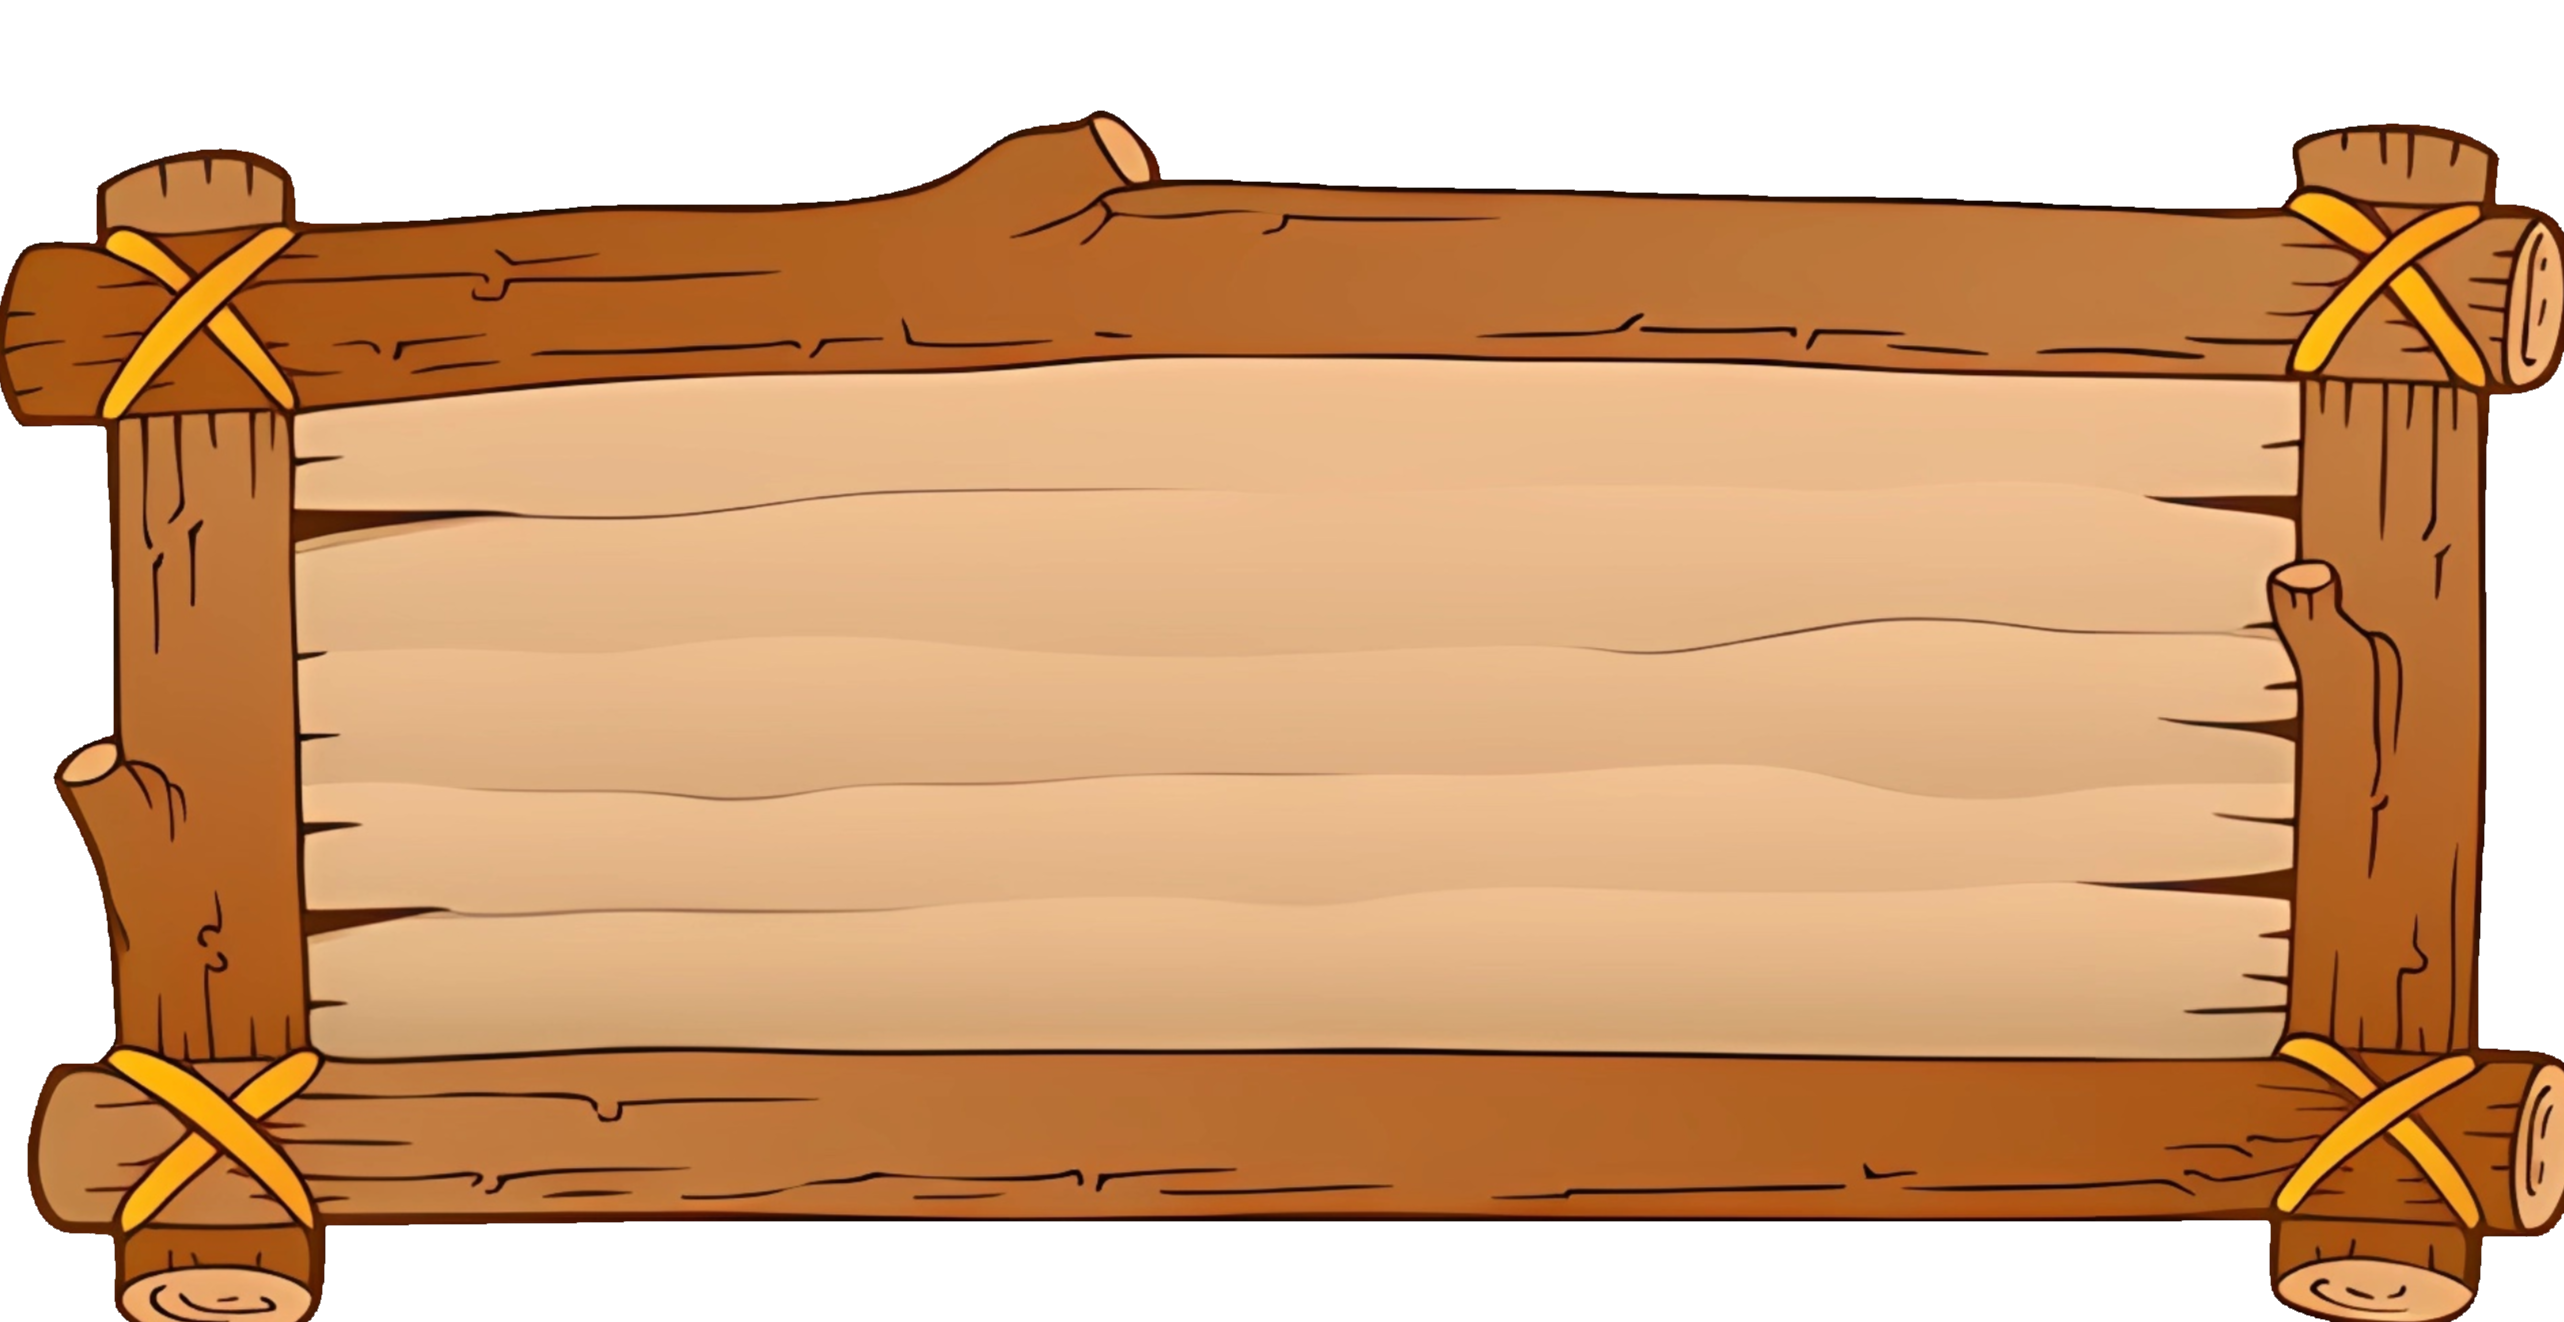
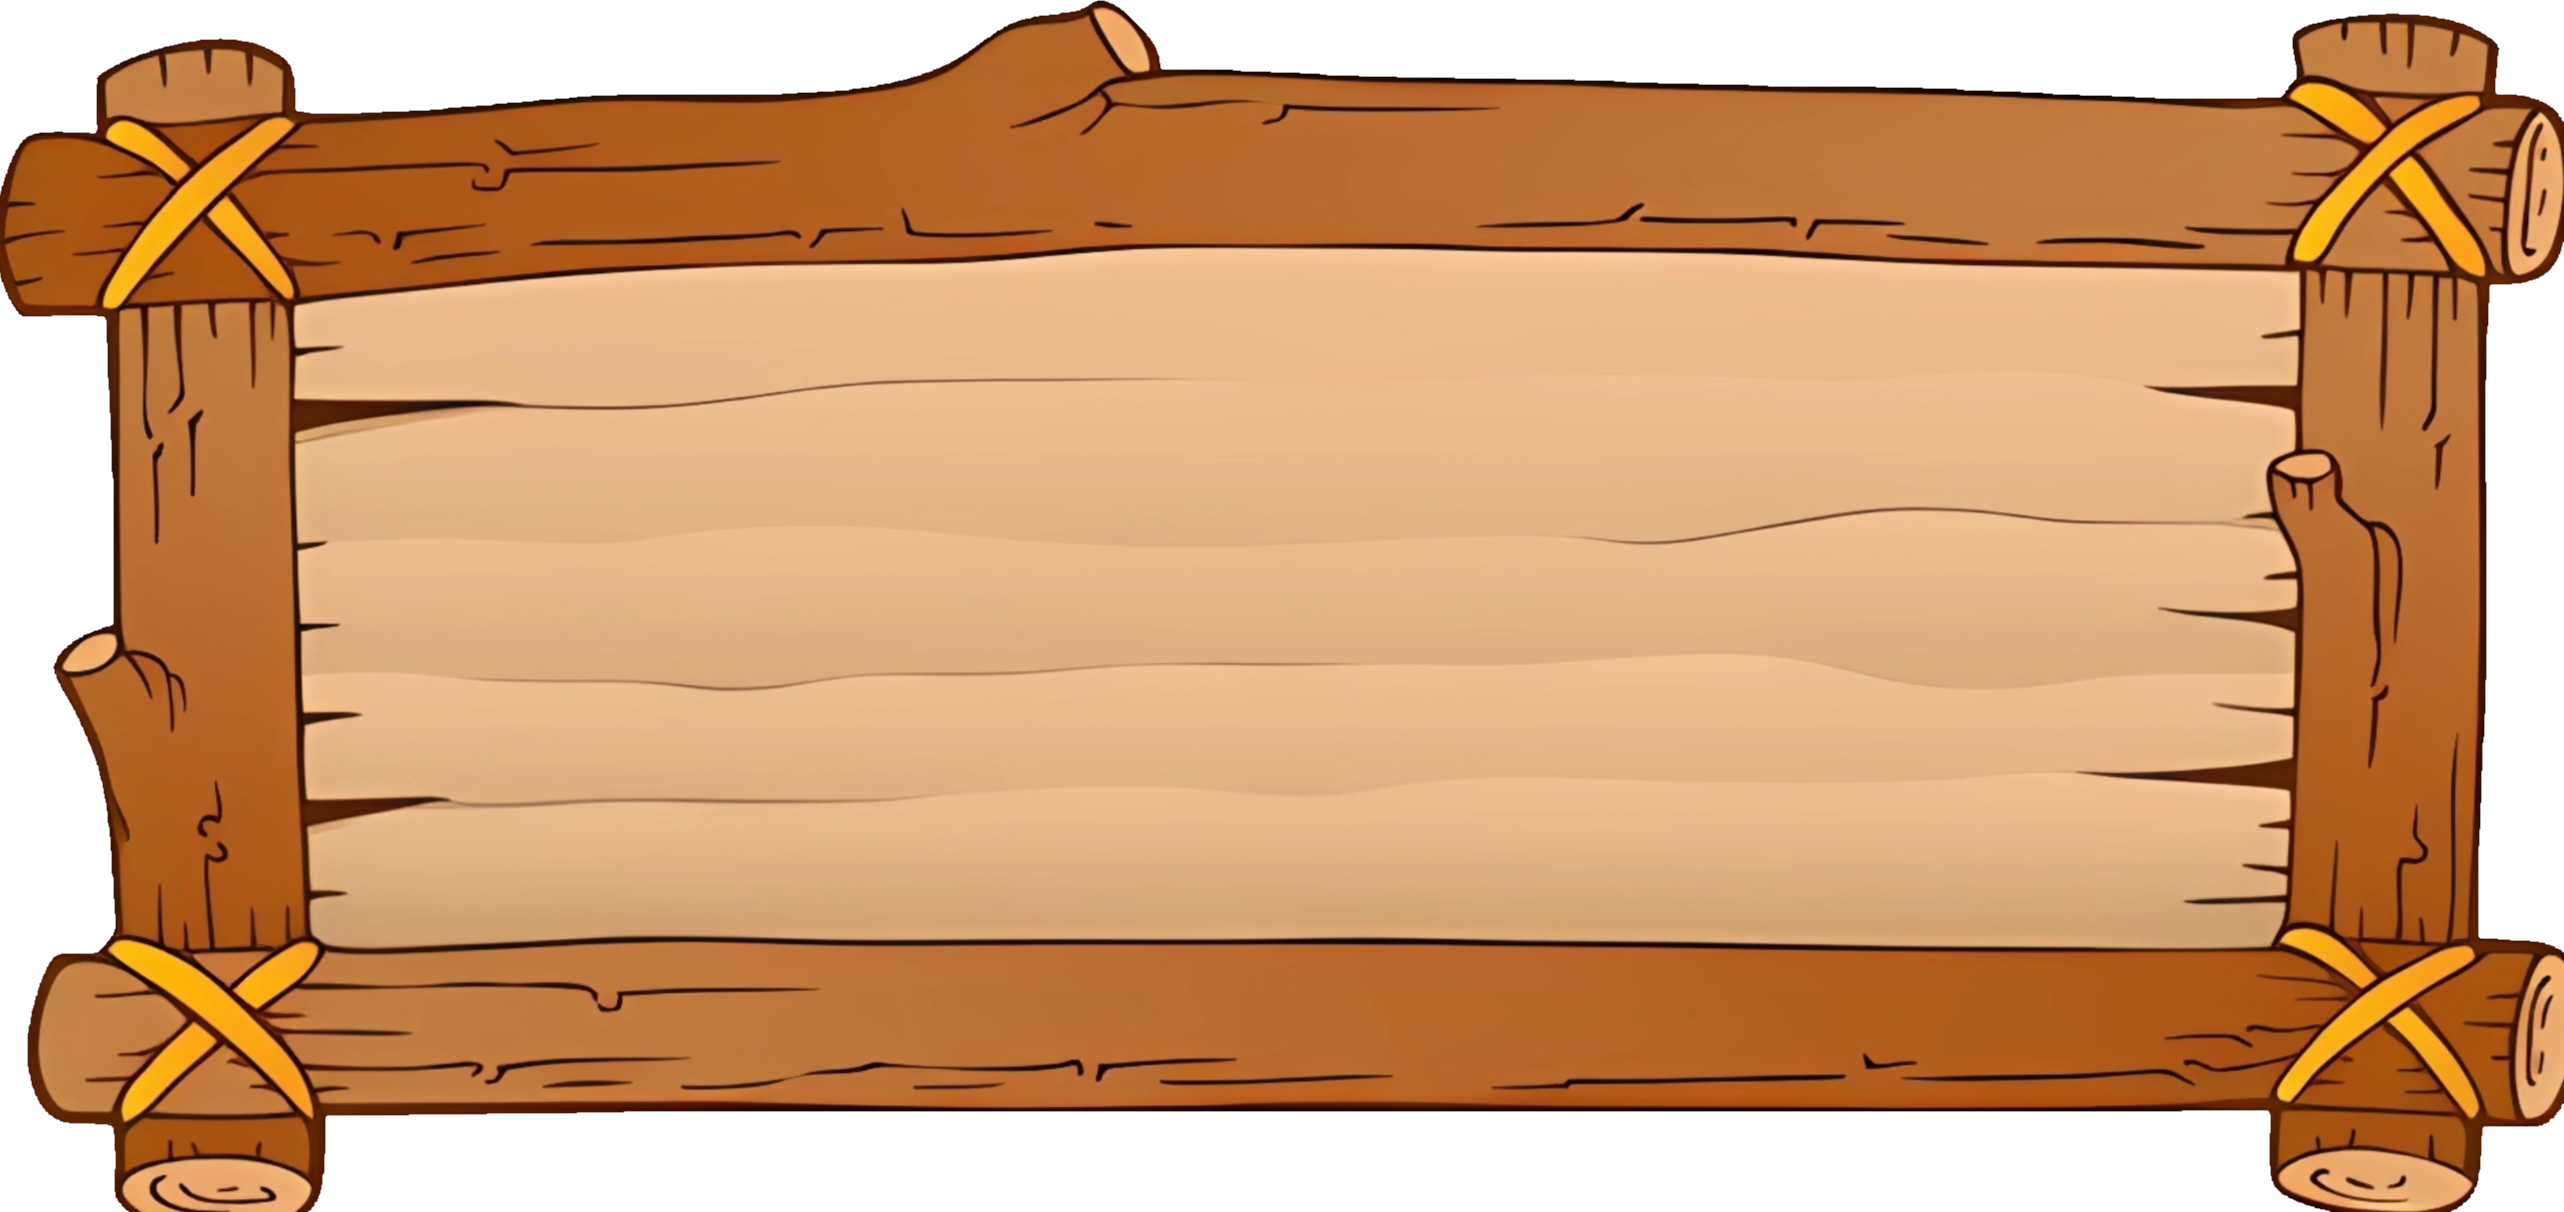
June 14th - 20th Schedule update v2

diff --git a/css/main.css b/css/main.css
@@ -21,25 +21,50 @@ body {
     background-position: center;
 }
 
-.navBar {
-    font-size: 1.5rem;
-    display: flex;
-    flex-direction: row;
-    justify-content: space-evenly;
-    margin: auto;
-    width: 98%;
-    height: 5rem;
-    align-items: stretch;
+.main {
+    margin: 0;
+    position: relative;
+    width: 20rem;
+    min-height: 3rem;
+    padding: 0 3rem 0 3rem;
+    left: calc(50% - 10rem);
+    align-content: center;
+    text-align: center;
 }
+
 
 .sign {
     height: 100%;
     width: 10rem;
     align-content: center;
     text-align: center;
-    padding-top: 1rem;
     background-image: url("../sign.png");
     background-size: 100% 100%;
     background-repeat: no-repeat;
     background-position: center;
 }
+
+.sign_top {
+    width: 20rem;
+    height: 32px;
+    background-image: url("../sign_top.png");
+    background-size: 100% 100%;
+    background-repeat: no-repeat;
+}
+
+.sign_middle {
+    width: 19.45rem;
+    background-image: url("../sign_middle.png");
+    background-repeat: repeat-y;
+    background-size: 100% 100%;
+    text-align: center;
+}
+
+.sign_bottom {
+    width: 20rem;
+    height: 32px;
+    background-image: url("../sign_bottom.png");
+    background-size: 100% 100%;
+    background-repeat: no-repeat;
+}
+

diff --git a/css/var.css b/css/var.css
@@ -4,11 +4,12 @@
     --test: #173B5F;
     --burnt-lapis: #0C1F31;
     --light-lapis: #638EB8;
+    --rgba-lapis: rgba(38, 97, 156, 0.5);
 }
 
 .home {
     font-size: 1.5rem;
-    height: 4rem;
+    height: 100%;
     width: 10rem;
     align-content: center;
     text-align: center;
@@ -16,4 +17,19 @@
     background-size: 100% 100%;
     background-repeat: no-repeat;
     background-position: center;
+}
+
+.navBar {
+    font-size: 1.5rem;
+    display: flex;
+    flex-direction: row;
+    justify-content: space-evenly;
+    margin: auto;
+    width: 98%;
+    height: 6rem;
+    align-items: stretch;
+}
+
+h1,h2,h3 {
+    margin: 0;
 }

diff --git a/index.html b/index.html
@@ -20,9 +20,17 @@
       <a class="sign" href="./credits/">Credits</a>
     </div>
     <hr>
-    <h1 style="text-align: center;">About Me</h1>
+    <div class="sign_top main"></div>
+    <div class="sign_middle main">
+      <h1>About Me</h1>
+    </div>
+    <div class="sign_bottom main"></div>
     <hr>
-    <h3 style="text-align: center;">Welcome to the Chainsteel Reatreat! I am your host Atlas Chainsteel, and this little corner of the internet is my home ^^</h3>
+    <div class="sign_top main"></div>
+    <div class="sign_middle main">
+      <h3>Welcome to the Chainsteel Reatreat! I am your host Atlas Chainsteel, and this little corner of the internet is my home ^^</h3>
+    </div>
+    <div class="sign_bottom main"></div>
     <script>
     </script>
   </body>

diff --git a/schedule/index.html b/schedule/index.html
@@ -8,13 +8,14 @@
     <meta content="Stream Schedule" property="og:title" />
     <meta content="The schedule for my streams, which I try to stay on top of" property="og:description" />
     <meta content="https://atlas-chainsteel.github.io/schedule/" property="og:url" />
-    <meta id="og-image" content="https://atlas-chainsteel.github.io/schedule/embedimage.png?v=19" property="og:image" />
-    <meta id="twitEmbed" content="https://atlas-chainsteel.github.io/schedule/embedimage.png?v=19" name="twitter:image" />
+    <meta id="og-image" content="https://atlas-chainsteel.github.io/schedule/embedimage.png?v=21" property="og:image" />
+    <meta id="twitEmbed" content="https://atlas-chainsteel.github.io/schedule/embedimage.png?v=21" name="twitter:image" />
     <meta content="summary_large_image" name="twitter:card" />
     <meta content="#26619c" data-react-helmet="true" name="theme-color" />
   </head>
   <body>
-    <a class="home" style="position:absolute" href="../">Home</a>
+    <div class="navBar"><a class="home" href="../">Home</a></div>
+    <hr>
     <div class="cont">
       <table class="schedule">
         <tr class="row">
@@ -29,7 +30,7 @@
         <tr class="row">
           <td class="day">Wednesday</td><td class="plans">Stream Planned</td>
         <tr class="row">
-          <td class="day">Thursday</td><td class="plans">Tetr.io</td>
+          <td class="day">Thursday</td><td class="plans">CLOSED</td>
         </tr>
         <tr class="row">
           <td class="day">Friday</td><td class="plans">Minecraft</td>